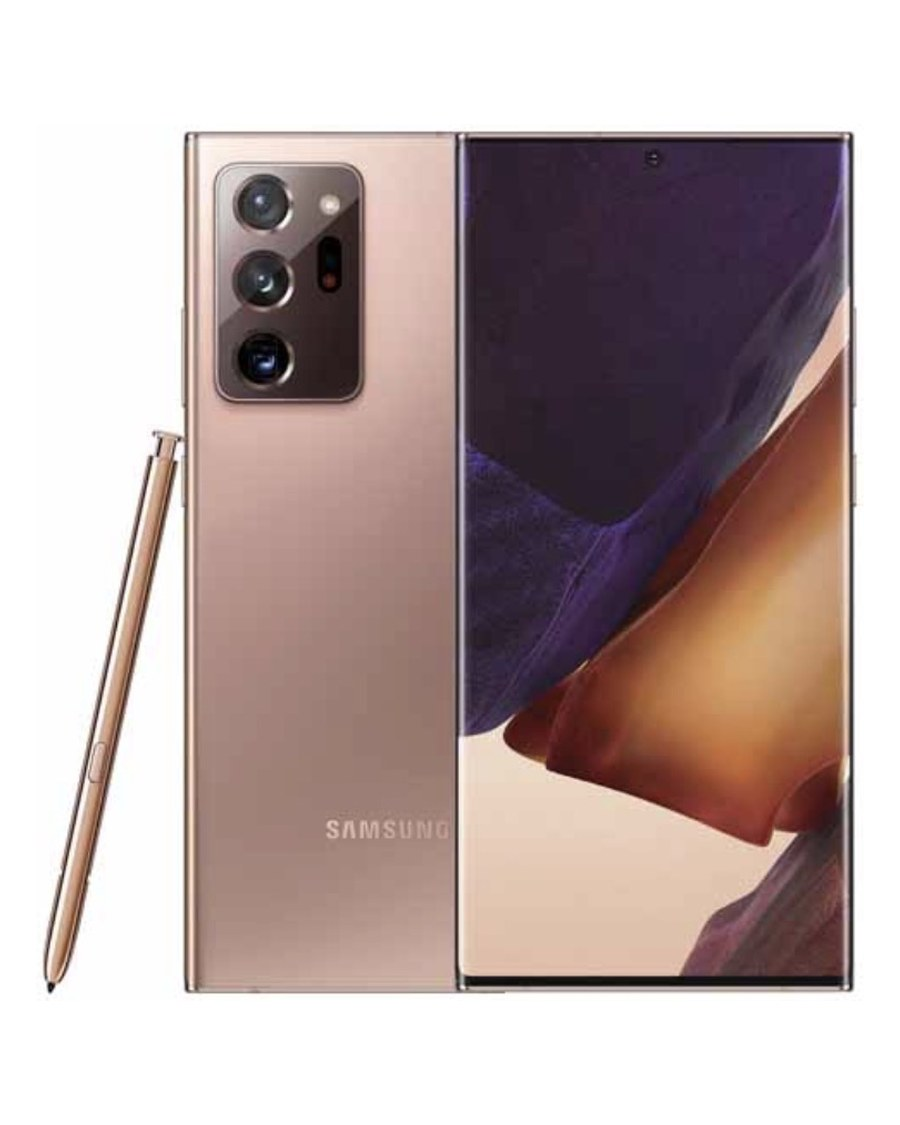
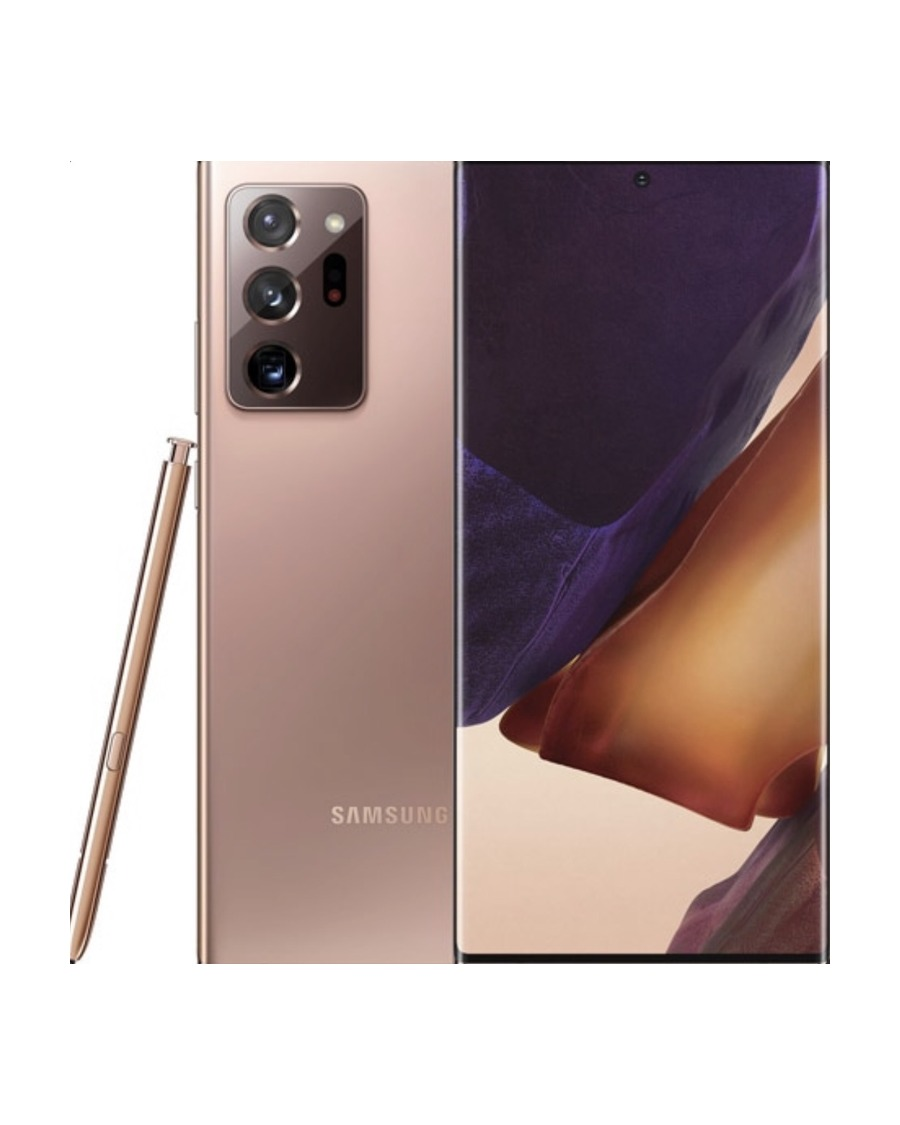
Add/refresh Note 20 and Galaxy Fold photos (#49)
- Refreshed Galaxy Note 20 (Mystic Gray) and Note 20 Ultra (Mystic Bronze)
- New photos for the first Galaxy Fold: unfolded main + folded gallery shot
All normalized to the shared 900x1125 (4:5) white canvas.

Claude-Session: https://claude.ai/code/session_01NrkQoER3NGoCwr35JLCUxQ

diff --git a/src/data/phones.ts b/src/data/phones.ts
@@ -472,6 +472,8 @@ export const PHONES: Phone[] = [
   },
   {
     slug: "galaxy-fold",
+    image: "/models/galaxy-fold.jpg",
+    images: ["/models/galaxy-fold-2.jpg"],
     name: "Galaxy Fold",
     series: "Galaxy Fold",
     releaseYear: 2019,